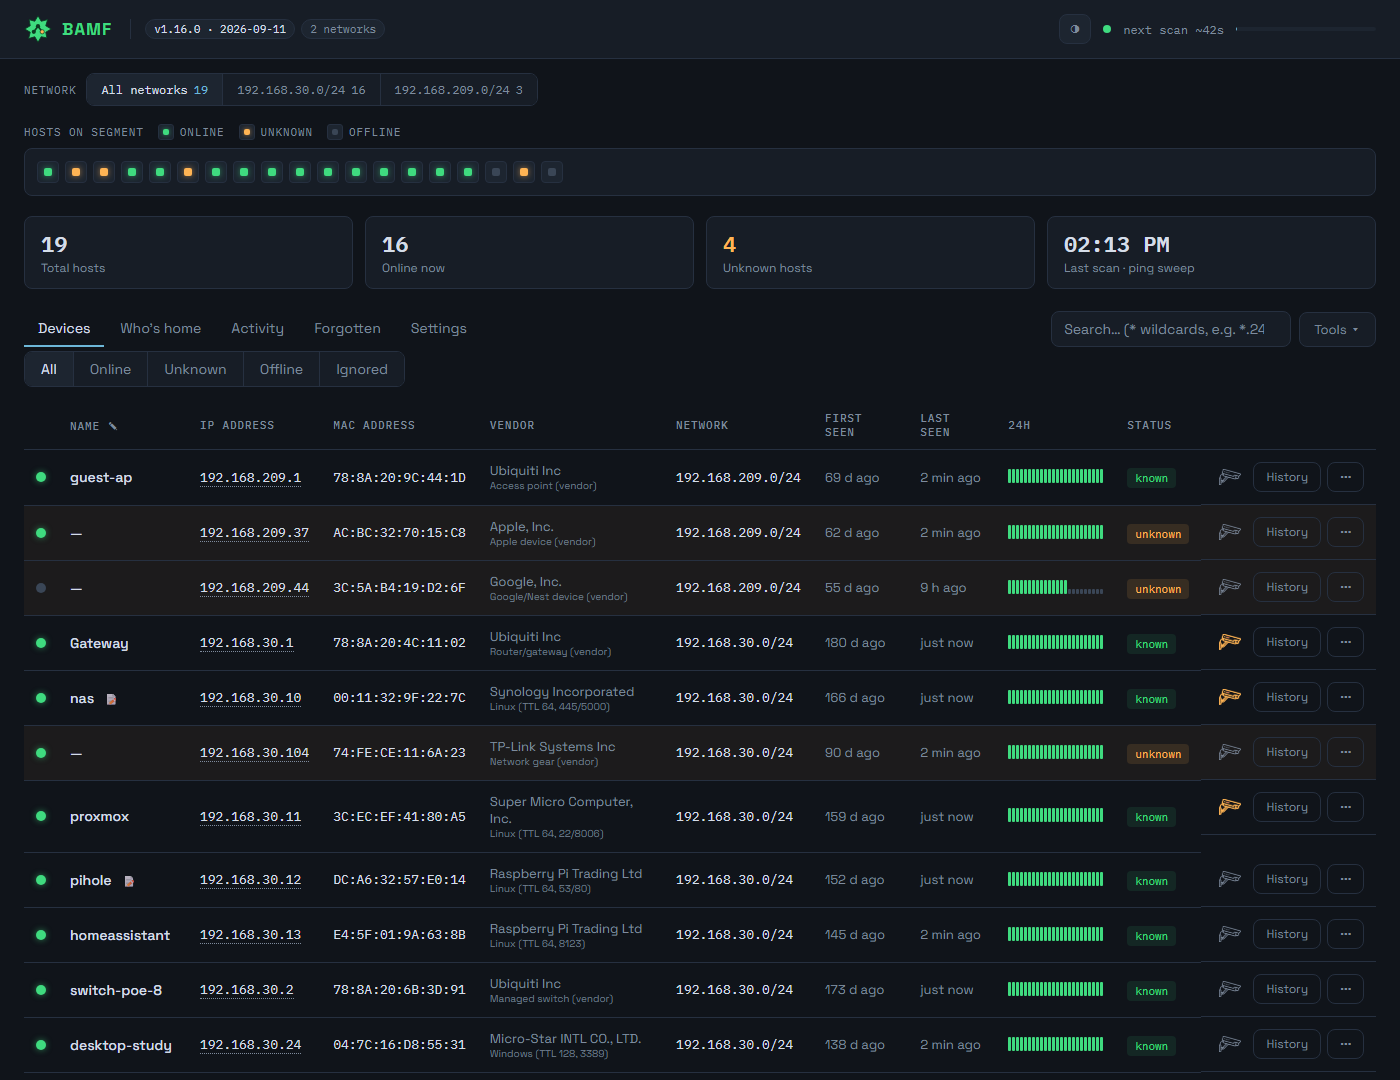
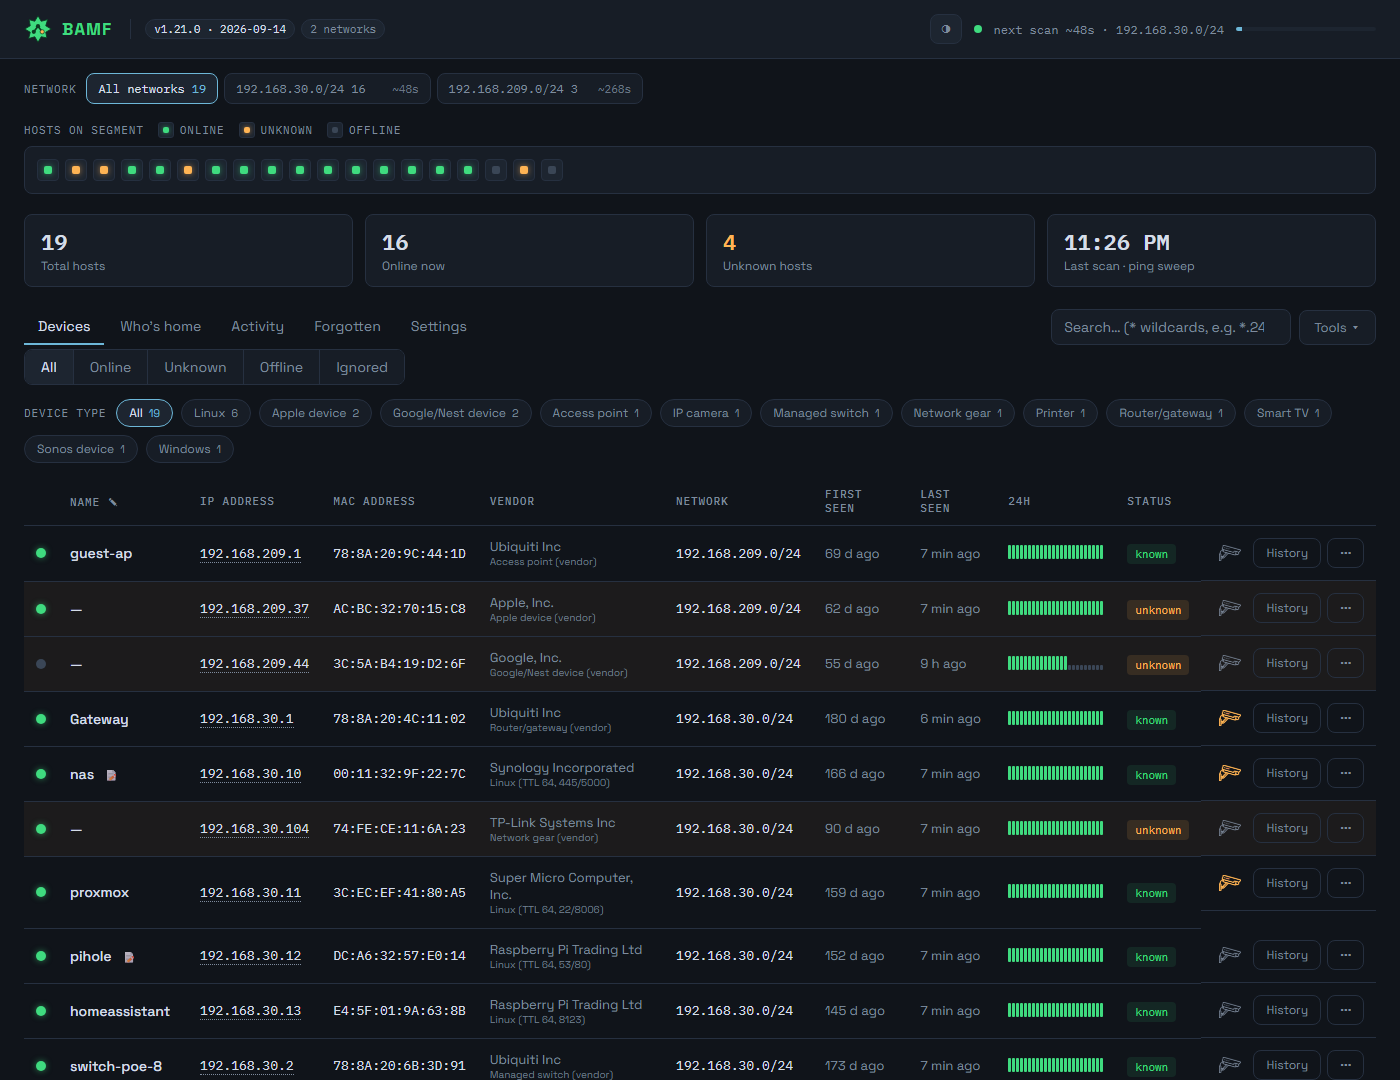
Stop the network strip redrawing itself twice a poll
With a dozen networks the row under NETWORK visibly redrew every ten
seconds, then shifted again a moment later as the seconds reappeared.
Three separate causes.

The strip was thrown away and rebuilt on every poll: renderNetTabs began
with innerHTML = "" and recreated every button, whether or not anything
about the networks had changed. It now builds a signature of the networks
and their states, rebuilds only when that changes, and otherwise updates
the counts, the selected chip and the countdowns in place.

The countdown slots were created empty. Only the one-second ticker ever
filled them, so every rebuild left the seconds blank for up to a second
and then put them back, reflowing every row after it had settled. The
text is now written when the chip is built, so a fresh strip already
carries its seconds.

The seconds changed the width of their chip. "~9s" to "~10s" to "~600s"
resized every chip as it ticked, nudging the rows around underneath.
The slot is now a fixed width with lining figures, so the digits change
and nothing else moves.

The layout only worked while it fitted on one line. A segmented control
reads as one control until it wraps; at three rows the shared borders
became a grid of half-boxes. Each network is now its own chip with its
own border, wrapping the way it looks like it should, and the NETWORK
label aligns to the first row rather than floating in the middle.

Twelve networks fit in two rows at 1400px. Countdowns stay hidden on
[…]

diff --git a/BAMF/wwwroot/index.html b/BAMF/wwwroot/index.html
@@ -253,27 +253,41 @@
   .conn-dot.err { background: var(--danger); }
 
   .netbar {
-    display: flex; align-items: center; gap: 10px;
+    display: flex; align-items: flex-start; gap: 10px;
     padding: 14px 24px 0; flex-wrap: wrap;
   }
   .netbar .lbl {
     font-family: "IBM Plex Mono", monospace; font-size: 11px;
     color: var(--text-dim); letter-spacing: 0.08em; text-transform: uppercase;
+    /* keeps the label on the first row's baseline when the chips wrap */
+    padding-top: 9px;
   }
-  .nettabs { display: flex; flex-wrap: wrap; border: 1px solid var(--line); border-radius: var(--radius); overflow: hidden; }
+  /* Separate chips rather than one segmented bar. A segmented control only
+     reads as one control while it fits on a line; with a dozen networks it
+     wrapped to three rows and the shared borders turned into a grid of
+     half-boxes. Chips wrap the way they look like they should. */
+  .nettabs { display: flex; flex-wrap: wrap; gap: 6px; }
   .nettab {
+    display: inline-flex; align-items: center; gap: 7px;
     background: var(--panel); color: var(--text-dim);
-    border: none; padding: 8px 14px; font: inherit; cursor: pointer;
+    border: 1px solid var(--line); border-radius: var(--radius);
+    padding: 7px 11px; font: inherit; cursor: pointer;
     font-family: "IBM Plex Mono", monospace; font-size: 12px;
   }
-  .nettab + .nettab { border-left: 1px solid var(--line); }
-  .nettab.active { background: var(--panel-2); color: var(--text); }
-  .nettab .cnt { color: var(--text-dim); margin-left: 6px; }
-  .nettab .due { color: var(--text-dim); margin-left: 8px; font-size: 11px; opacity: .8; }
+  .nettab:hover { color: var(--text); border-color: var(--focus); }
+  .nettab.active { background: var(--panel-2); color: var(--text); border-color: var(--focus); }
+  .nettab .cnt { color: var(--text-dim); }
+  /* Fixed slot, lining figures: the seconds tick every second, and without
+     this every chip changed width on the digit boundaries and shoved the
+     rows around underneath them. */
+  .nettab .due {
+    color: var(--text-dim); font-size: 11px; opacity: .8;
+    font-variant-numeric: tabular-nums; min-width: 46px; text-align: right;
+  }
   .nettab.active .cnt { color: var(--focus); }
   .nettab.paused { color: var(--text-dim); font-style: italic; }
   .nettab .paused-tag, .nettab .noif-tag {
-    margin-left: 8px; padding: 1px 6px; border-radius: 999px; font-style: normal;
+    padding: 1px 6px; border-radius: 999px; font-style: normal;
     font-size: 10px; letter-spacing: .06em; text-transform: uppercase;
     color: var(--led-warn); border: 1px solid var(--led-warn); opacity: .85;
   }
@@ -1576,6 +1590,37 @@ function renderGuessChips() {
   }
 }
 
+// What a network's chip looks like, as opposed to what it says. Only a change
+// here needs new DOM; counts and countdowns are just text on the existing one.
+//   paused: switched off in Settings - devices keep their last known state
+//   noif:   configured, but this machine has no interface on it, so a scan can
+//           never find anything. No countdown: counting down to a scan that
+//           does nothing misleads.
+function netTabKind(value) {
+  if (value === "all") return "all";
+  if (scanModes[value] === "paused") return "paused";
+  if (scanModes[value] === "skipped") return "noif";
+  return subnetNextDue[value] ? "due" : "plain";
+}
+
+function netTabTitle(net, kind) {
+  if (kind === "paused") return "Paused in Settings - not being scanned, devices keep their last known state";
+  if (kind === "noif") return "No interface on this machine for this network, so nothing can be found here. Remove it from Bamf:Subnets, or add a NIC on it.";
+  if (net === "all") return "";
+  const bits = [];
+  if (subnetIntervals[net]) bits.push("every " + subnetIntervals[net] + "s");
+  if (scanModes[net]) bits.push("via " + scanModes[net]);
+  return bits.join(" · ");
+}
+
+// Structure of the strip as last built. The whole strip used to be thrown away
+// and rebuilt on every 10s poll, which with a dozen networks was a visible
+// redraw - and worse, the rebuilt countdown slots came back empty, so the
+// seconds vanished and reappeared on the next tick, reflowing every row a
+// second after it had settled. The DOM is now rebuilt only when the networks
+// or their states actually change.
+let netTabSig = null;
+
 function renderNetTabs() {
   // Networks = what the scanner reports, plus any subnet still present on stored hosts.
   const cidrKey = c => {
@@ -1588,37 +1633,57 @@ function renderNetTabs() {
     .sort((a, b) => cidrKey(a) - cidrKey(b));
   if (network !== "all" && !all.includes(network)) network = "all";
 
-  const wrap = $("nettabs");
-  wrap.innerHTML = "";
-  const mk = (value, label, count) => {
-    const b = document.createElement("button");
-    const paused = scanModes[value] === "paused";
-    // "skipped": configured, but this machine has no interface on it, so a
-    // scan can never find anything there. Marked like paused, without a
-    // countdown - counting down to a scan that does nothing misleads.
-    const noIf = scanModes[value] === "skipped";
-    b.className = "nettab" + (network === value ? " active" : "") + (paused || noIf ? " paused" : "");
-    // A paused network's devices never change, which looks like a fault unless
-    // the tab says why. Switched off in Settings; the tab itself is untouched.
-    if (paused) b.title = "Paused in Settings - not being scanned, devices keep their last known state";
-    else if (noIf) b.title = "No interface on this machine for this network, so nothing can be found here. Remove it from Bamf:Subnets, or add a NIC on it.";
-    else if (value !== "all") {
-      const bits = [];
-      if (subnetIntervals[value]) bits.push("every " + subnetIntervals[value] + "s");
-      if (scanModes[value]) bits.push("via " + scanModes[value]);
-      b.title = bits.join(" · ");
-    }
-    b.innerHTML = `${esc(label)}<span class="cnt">${count}</span>` +
-      (paused ? `<span class="paused-tag">paused</span>` : "") +
-      (noIf ? `<span class="noif-tag">no interface</span>` : "") +
-      (!paused && !noIf && value !== "all" && subnetNextDue[value] ? `<span class="due" data-due-net="${esc(value)}"></span>` : "");
-    b.onclick = () => { network = value; render(); };
-    wrap.appendChild(b);
-  };
   const counted = hosts.filter(h => !h.ignored && !h.forgotten);
-  mk("all", "All networks", counted.length);
-  for (const s of all)
-    mk(s, s, counted.filter(h => h.subnet === s).length);
+  const rows = [{ net: "all", label: "All networks", count: counted.length }];
+  for (const n of all)
+    rows.push({ net: n, label: n, count: counted.filter(h => h.subnet === n).length });
+  for (const r of rows) r.kind = netTabKind(r.net);
+
+  const wrap = $("nettabs");
+  const sig = rows.map(r => r.net + "\u0001" + r.kind).join("\u0002");
+  if (sig !== netTabSig) {
+    netTabSig = sig;
+    wrap.innerHTML = "";
+    for (const r of rows) {
+      const b = document.createElement("button");
+      b.type = "button";
+      b.className = "nettab";
+      b.dataset.net = r.net;
+      const nm = document.createElement("span");
+      nm.textContent = r.label;
+      const cnt = document.createElement("span");
+      cnt.className = "cnt";
+      b.append(nm, cnt);
+      if (r.kind === "paused" || r.kind === "noif") {
+        const tag = document.createElement("span");
+        tag.className = r.kind === "paused" ? "paused-tag" : "noif-tag";
+        tag.textContent = r.kind === "paused" ? "paused" : "no interface";
+        b.appendChild(tag);
+      } else if (r.kind === "due") {
+        const d = document.createElement("span");
+        d.className = "due";
+        d.dataset.dueNet = r.net;
+        b.appendChild(d);
+      }
+      b.onclick = () => { network = r.net; render(); };
+      wrap.appendChild(b);
+    }
+  }
+
+  // Everything that changes without changing the structure. The countdown is
+  // filled here as well as by the one-second ticker, so a strip that has just
+  // been rebuilt already carries its seconds instead of showing a blank slot
+  // until the next tick.
+  rows.forEach((r, i) => {
+    const b = wrap.children[i];
+    if (!b) return;
+    b.classList.toggle("active", network === r.net);
+    b.classList.toggle("paused", r.kind === "paused" || r.kind === "noif");
+    b.querySelector(".cnt").textContent = r.count;
+    b.title = netTabTitle(r.net, r.kind);
+    const d = b.querySelector(".due");
+    if (d && subnetNextDue[r.net]) d.textContent = dueText(subnetNextDue[r.net]);
+  });
 }
 
 const ipNum = ip => ip.split(".").reduce((a, o) => (a << 8) + (+o || 0), 0) >>> 0;
